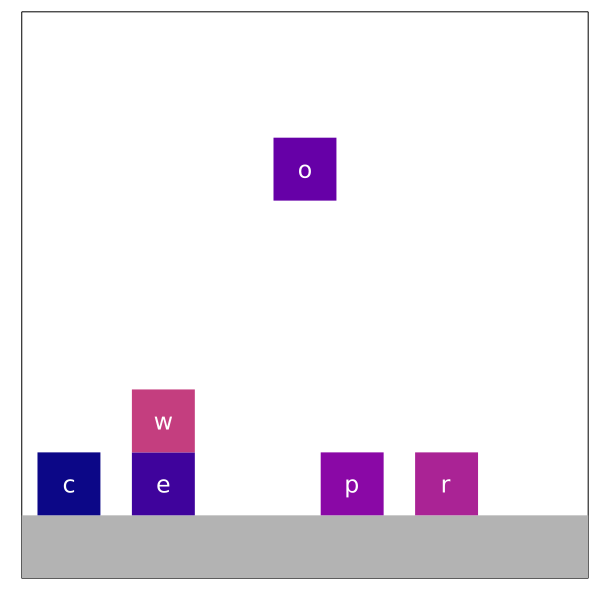
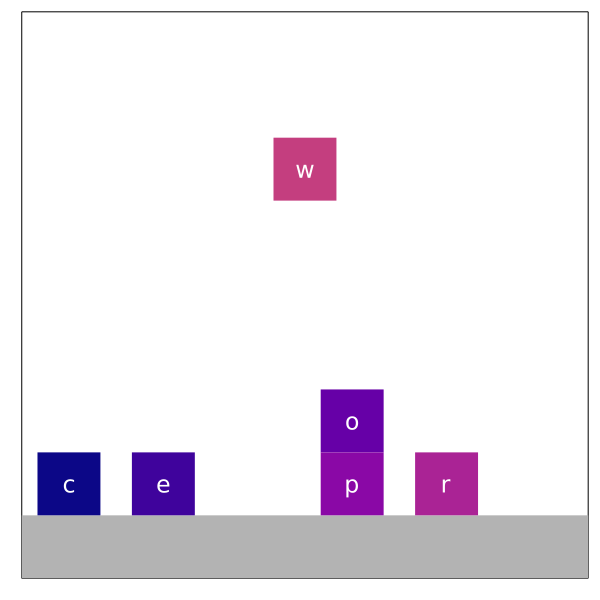
updating scenario-2-3

Changed region(s): [[0.51, 0.63, 0.66, 0.78], [0.45, 0.21, 0.57, 0.36], [0.21, 0.63, 0.33, 0.78]]

diff --git a/public/app.js b/public/app.js
@@ -669,13 +669,13 @@ experimentApp.controller('ExperimentController',
       },
       {
         "trial": 0,
-        "times": [1, 2, 3, 4, 5, 6, 7, 8],
+        "times": [1, 2, 3, 4, 5, 6, 7],
         "name": "scenario_2_3",
         "optimal": true,
         "goal_space": ["power", "cower", "crow", "core", "pore"],
         "goal": 3,
         "problem": 2,
-        "length": 8,
+        "length": 7,
         "images": [
           "stimuli/2/3/0.png",
           "stimuli/2/3/0.gif",
@@ -683,8 +683,7 @@ experimentApp.controller('ExperimentController',
           "stimuli/2/3/2.gif",
           "stimuli/2/3/3.gif",
           "stimuli/2/3/4.gif",
-          "stimuli/2/3/5.gif",
-          "stimuli/2/3/6.gif"
+          "stimuli/2/3/5.gif"
         ]
       },
       {
